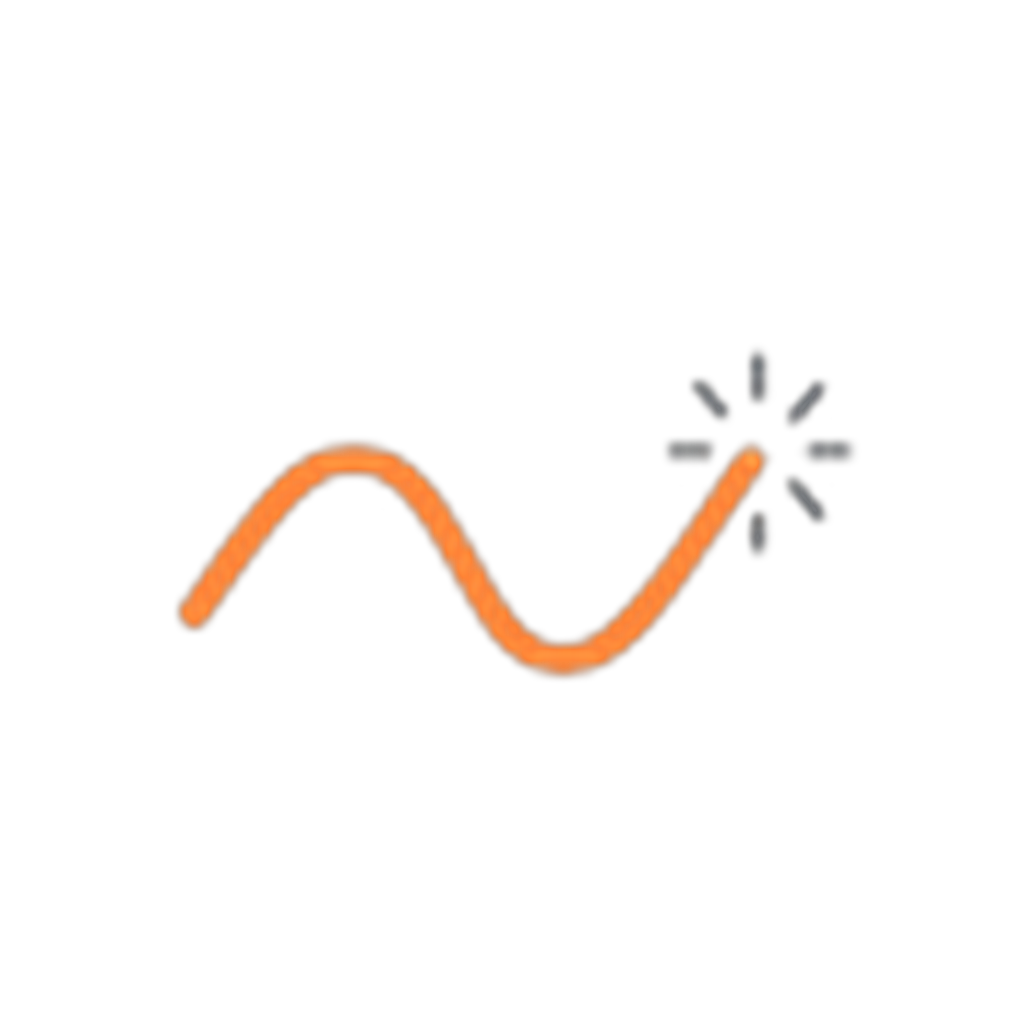
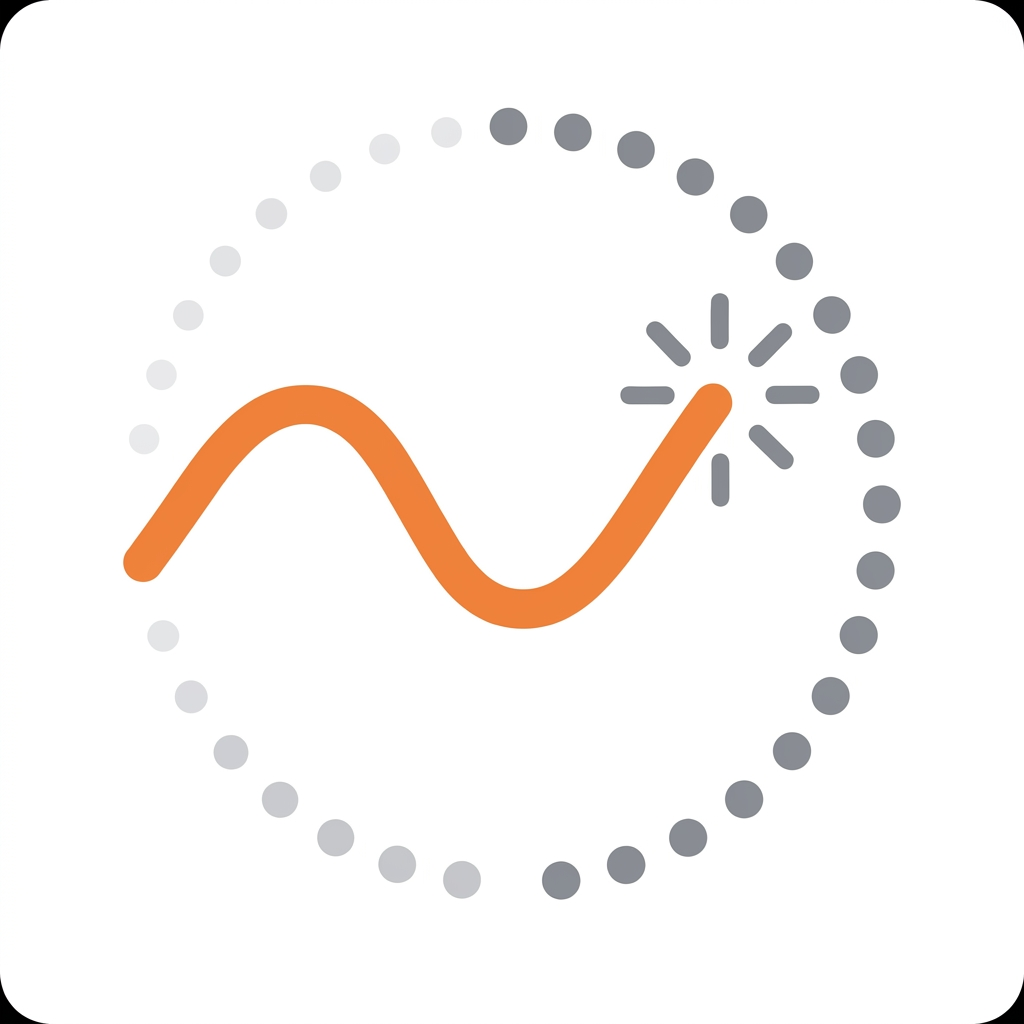
chore(assets): ícone oficial unificado (App Store, Play adaptive, Live Activity)
Made-with: Cursor

diff --git a/scripts/generate-app-icons-from-master.py b/scripts/generate-app-icons-from-master.py
@@ -1,0 +1,100 @@
+#!/usr/bin/env python3
+"""
+Gera ícones Expo/Android/Live Activity a partir de um master 1024×1024 (RGB, sem alfa).
+
+Uso:
+  python3 scripts/generate-app-icons-from-master.py assets/icon-master-1024.png
+"""
+from __future__ import annotations
+
+import sys
+from pathlib import Path
+
+import numpy as np
+from PIL import Image, ImageOps
+
+ROOT = Path(__file__).resolve().parents[1]
+ASSETS = ROOT / "assets"
+LIVE = ASSETS / "liveActivity"
+
+
+def load_rgb(path: Path) -> Image.Image:
+    im = Image.open(path).convert("RGB")
+    if im.size != (1024, 1024):
+        im = ImageOps.fit(im, (1024, 1024), method=Image.Resampling.LANCZOS)
+    return im
+
+
+def white_to_transparent_rgb(im: Image.Image, thr: int = 248) -> Image.Image:
+    arr = np.asarray(im.convert("RGB"), dtype=np.uint16)
+    r, g, b = arr[:, :, 0], arr[:, :, 1], arr[:, :, 2]
+    white = (r > thr) & (g > thr) & (b > thr)
+    rgba = np.zeros((arr.shape[0], arr.shape[1], 4), dtype=np.uint8)
+    rgba[:, :, :3] = arr.astype(np.uint8)
+    rgba[:, :, 3] = np.where(white, 0, 255).astype(np.uint8)
+    return Image.fromarray(rgba)
+
+
+def monochrome_silhouette(im_rgb: Image.Image, thr: int = 245) -> Image.Image:
+    """Camada Android themed: silhueta preta sobre transparente."""
+    arr = np.asarray(im_rgb, dtype=np.uint16)
+    r, g, b = arr[:, :, 0], arr[:, :, 1], arr[:, :, 2]
+    white = (r > thr) & (g > thr) & (b > thr)
+    out = np.zeros((arr.shape[0], arr.shape[1], 4), dtype=np.uint8)
+    out[:, :, 0] = 0
+    out[:, :, 1] = 0
+    out[:, :, 2] = 0
+    out[:, :, 3] = np.where(white, 0, 255).astype(np.uint8)
+    return Image.fromarray(out)
+
+
+def solid_white(size: int = 1024) -> Image.Image:
+    return Image.new("RGB", (size, size), (255, 255, 255))
+
+
+def main() -> int:
+    if len(sys.argv) < 2:
+        print("Uso: python3 scripts/generate-app-icons-from-master.py <master.png>", file=sys.stderr)
+        return 1
+    master_path = Path(sys.argv[1]).expanduser().resolve()
+    if not master_path.is_file():
+        print(f"Ficheiro não encontrado: {master_path}", file=sys.stderr)
+        return 1
+
+    LIVE.mkdir(parents=True, exist_ok=True)
+    master = load_rgb(master_path)
+
+    # App Store / Expo principal + splash (sem transparência)
+    master.save(ASSETS / "icon.png", "PNG", optimize=True)
+    master.save(ASSETS / "splash-icon.png", "PNG", optimize=True)
+
+    # Android adaptive: primeiro plano = arte completa; fundo branco sólido
+    master.save(ASSETS / "android-icon-foreground.png", "PNG", optimize=True)
+    solid_white(1024).save(ASSETS / "android-icon-background.png", "PNG", optimize=True)
+    monochrome_silhouette(master).save(ASSETS / "android-icon-monochrome.png", "PNG", optimize=True)
+
+    # Live Activity: mesma marca, fundo transparente, 360 px (nítido em @2x/@3x)
+    badge = white_to_transparent_rgb(master, thr=248)
+    badge = badge.resize((360, 360), Image.Resampling.LANCZOS)
+    badge.save(LIVE / "brspark-badge.png", "PNG", optimize=True)
+
+    # Favicon web
+    fav = master.resize((48, 48), Image.Resampling.LANCZOS)
+    fav.save(ASSETS / "favicon.png", "PNG", optimize=True)
+
+    print("Gerado:")
+    for rel in (
+        "assets/icon.png",
+        "assets/splash-icon.png",
+        "assets/android-icon-foreground.png",
+        "assets/android-icon-background.png",
+        "assets/android-icon-monochrome.png",
+        "assets/liveActivity/brspark-badge.png",
+        "assets/favicon.png",
+    ):
+        print(f"  {ROOT / rel}")
+    return 0
+
+
+if __name__ == "__main__":
+    raise SystemExit(main())
